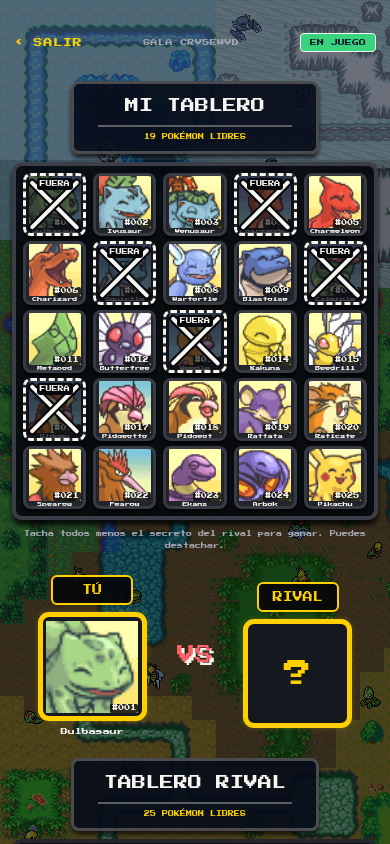
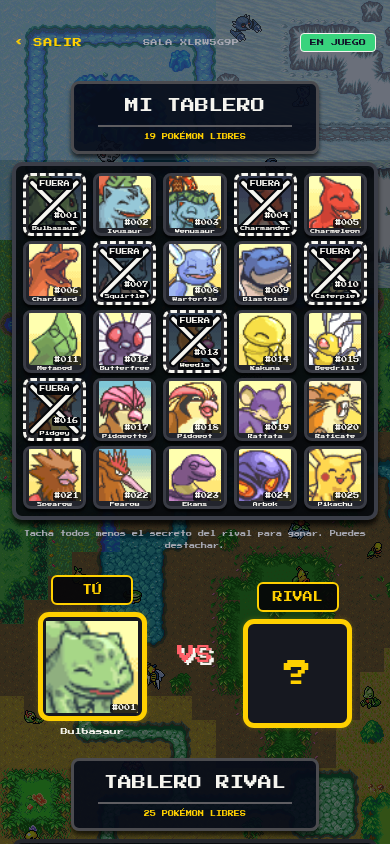
Docs: «en TACHADO VISIBLE, activa MODO DALTÓNICO»; expo 58.0.22 y zod; capturas nuevas
- README y USER_GUIDE nombraban el interruptor como «TACHADO VISIBLE»; se llama MODO DALTÓNICO.
- CHANGELOG, PLAN, MEMORY y SECURITY: expo 58.0.22, 11 avisos moderados y overrides de zod retirado.
- Capturas de Ajustes y del tablero con el tachado visible rehechas con el número y el nombre legibles.

Hecho por Claude.

diff --git a/MEMORY.md b/MEMORY.md
@@ -4,7 +4,7 @@ Memoria del proyecto para personas y agentes: decisiones, trampas conocidas y es
 
 ## Estado actual (31/10/2026)
 
-- Versión **1.1.0** con Expo SDK 58 (expo 58.0.21, React Native 0.88.1, React 19.3). Novedad: ventana de **Ajustes**
+- Versión **1.1.0** con Expo SDK 58 (expo 58.0.22, React Native 0.88.1, React 19.3). Novedad: ventana de **Ajustes**
   (sonido y volumen, vibración, tachado visible para daltonismo y estadísticas del Solitario exportables). Web jugable en
   <https://bertmarti.github.io/Adivina-pkm/>, instalable como PWA; el Solitario funciona sin red.
 - Solitario: 100 % local, funciona en la web sin servidor.
@@ -34,7 +34,7 @@ Memoria del proyecto para personas y agentes: decisiones, trampas conocidas y es
 | 24/10/2026 | `connect-src` de la CSP se limita a la web y al servidor configurado | Evita conexiones arbitrarias desde la build publicada. |
 
 | 25/10/2026 | Expo SDK 58 completo de una vez | Cerraba las alertas pendientes del SDK 57 que sí tenían arreglo y Dependabot no puede subir el SDK por piezas. |
-| 25/10/2026 | `overrides` de `zod` ^4.6.7 solo dentro de `@expo/cli` | El CLI usa zod solo para validar complementos de DevTools/MCP con API que zod 4 mantiene; `expo-doctor`, `expo export` y `expo start` funcionan. Quitar el override cuando `@expo/cli` dependa de zod ≥ 4.6.6. |
+| 25/10/2026 | `overrides` de `zod` ^4.6.7 solo dentro de `@expo/cli` (**quitado el 31/10/2026**: @expo/cli 58.1.18 ya no depende de zod) | El CLI usa zod solo para validar complementos de DevTools/MCP con API que zod 4 mantiene; `expo-doctor`, `expo export` y `expo start` funcionan. Quitar el override cuando `@expo/cli` dependa de zod ≥ 4.6.6. |
 | 25/10/2026 | `node-forge` 1.4.0 se deja (alerta abierta) | No existe versión corregida; solo lo usa `@expo/cli` para certificados de firma (iOS y expo-updates), que este proyecto no usa. **Resuelto el 31/10/2026:** `npm audit fix` sube a 1.4.2 (dentro del rango `^1.4.0` de `@expo/cli`). |
 | 25/10/2026 | Fuente derivada «PokeQuien Pixel» | Press Start 2P encoge las mayúsculas acentuadas. La OFL permite modificarla, pero con otro nombre (nombre reservado). |
 | 25/10/2026 | PWA generada en la build (`scripts/add-web-pwa.mjs`), no en `public/` | La lista de precaché depende de los nombres con hash de cada build; y en `expo start --web` no debe haber service worker. |
@@ -47,7 +47,7 @@ Memoria del proyecto para personas y agentes: decisiones, trampas conocidas y es
 | 31/10/2026 | Vibración web solo con `navigator.vibrate` y tras la primera pulsación (`userActivation.hasBeenActive`) | Safari de iPhone y los ordenadores no la tienen; Chrome bloquea y avisa en consola si se llama antes de que la persona toque la página. |
 | 31/10/2026 | Tachado visible (modo daltónico) con velo, aspa blanca con contorno negro, borde discontinuo y «FUERA» | Cuatro señales que no dependen del tono; `src/ui/contrast.test.ts` comprueba WCAG AA (texto ≥ 4,5:1, gráficos ≥ 3:1). |
 | 31/10/2026 | Estadísticas del Solitario calculadas del historial existente (`src/game/singlePlayerStats.ts`), sin almacenamiento nuevo | Una sola fuente de verdad: borrar estadísticas es borrar el historial. CSV con `;`, BOM y protección contra fórmulas para Excel en español. |
-| 31/10/2026 | Avisos moderados de `glob` 13 / `minimatch` 10 / `deepmerge` sin `overrides` | Son majors dentro de las herramientas de Expo; forzarlas podría romper `expo export`. Se esperan al parche del SDK. |
+| 31/10/2026 | Avisos moderados de `glob` 13 / `minimatch` 10 sin `overrides` (deepmerge desapareció con expo 58.0.22) | Son majors dentro de las herramientas de Expo; forzarlas podría romper `expo export`. Se esperan al parche del SDK. |
 
 ## Trampas conocidas
 

diff --git a/docs/SECURITY.md b/docs/SECURITY.md
@@ -59,6 +59,6 @@ node --check server/room-server.js
 git diff --check
 ```
 
-Dependencias (31/10/2026, SDK 58, expo 58.0.21): `node-forge` 1.4.2 (publicada el 27/10/2026) corrige GHSA-86w9-cpqp-85rv y otros 11 avisos de forge; `npm audit` ya no da ninguna alta ni crítica. Quedan 11–12 avisos moderados/bajos (12 en la Raspberry, 11 en el CI), todos dentro de las herramientas de Expo (`@expo/cli`, `@expo/config`, `@expo/metro-config`…), por tres paquetes sin versión corregida dentro de su major: `glob` 13 (GHSA-3g3m-2fjr-6pw4, se corrige en 14.0.2), `minimatch` 10 (GHSA-g3hv-75wg-m249, en 11.0.1) y `deepmerge` 4.3.1 (GHSA-gcqx-w48m-w2h4, baja, sin parche). Solo se usan en el ordenador de desarrollo o en CI con patrones y archivos del propio repo; no llegan a la APK, la web ni el servidor de salas. La «solución» de `npm audit fix --force` (bajar a expo 51) no tiene sentido; se aceptarán cuando Expo publique un parche del SDK 58 con esas majors. `npm audit` dentro de `server/` da 0 vulnerabilidades. `zod` se fuerza a `^4.6.7` dentro de `@expo/cli` con `overrides` en `package.json` (GHSA-mrhx-c7xc-m3w5 resuelto; el CLI solo usa API compatible con zod 4).
+Dependencias (31/10/2026, SDK 58, expo 58.0.22): `node-forge` 1.4.2 (publicada el 27/10/2026) corrige GHSA-86w9-cpqp-85rv y otros 11 avisos de forge; `npm audit` ya no da ninguna alta ni crítica. Quedan 11 avisos moderados, todos dentro de las herramientas de Expo (`@expo/cli`, `@expo/config`, `@expo/metro-config`…), por dos paquetes sin versión corregida dentro de su major: `glob` 13 (GHSA-3g3m-2fjr-6pw4, se corrige en 14.0.2) y `minimatch` 10 (GHSA-g3hv-75wg-m249, en 11.0.1). Solo se usan en el ordenador de desarrollo o en CI con patrones y archivos del propio repo; no llegan a la APK, la web ni el servidor de salas. La «solución» de `npm audit fix --force` (bajar a expo 51) no tiene sentido; se aceptarán cuando Expo publique un parche del SDK 58 con esas majors. `npm audit` dentro de `server/` da 0 vulnerabilidades. El `overrides` de `zod` (GHSA-mrhx-c7xc-m3w5) se quitó el 31/10/2026: desde expo 58.0.22, `@expo/cli` 58.1.18 ya no depende de zod.
 
 Las decisiones siguen la [guía de seguridad WebSocket de OWASP](https://cheatsheetseries.owasp.org/cheatsheets/WebSocket_Security_Cheat_Sheet.html): allowlist de `Origin`, validación de cada mensaje, límites de tamaño, rate limiting y limpieza de conexiones. `expo-secure-store` se usa solo para el token pequeño de sesión, siguiendo su almacenamiento seguro en [Android/iOS](https://docs.expo.dev/versions/v54.0.0/sdk/securestore/); el historial local de partidas sigue siendo deliberadamente no sensible.

diff --git a/README.md b/README.md
@@ -311,7 +311,7 @@ Abre **AJUSTES** arriba a la derecha en la pantalla de inicio. Durante un Duelo,
 
 - 🔊 **Sonido:** activa o desactiva el sonido, ajusta el volumen en pasos del 10 % con **−** y **+** (empieza al 80 %) y pulsa **PROBAR SONIDO**.
 - 📳 **Vibración:** activa o desactiva la vibración y pulsa **PROBAR VIBRACIÓN**. En la app usa la vibración del teléfono; en la web funciona en móviles Android con Chrome (u otro navegador que pueda vibrar). En Safari de iPhone y en ordenadores aparece desactivada porque no pueden vibrar. Si tienes activado «reducir movimiento», empieza apagada y las animaciones no tienen movimiento.
-- 🦻 **Tachado visible:** actívalo para que cada carta descartada se oscurezca y lleve un aspa blanca con borde negro, borde discontinuo y la etiqueta «FUERA». La vista previa muestra una carta disponible y otra descartada.
+- 🦻 **Tachado visible:** en **TACHADO VISIBLE**, activa **MODO DALTÓNICO** para que cada carta descartada se oscurezca y lleve un aspa blanca con borde negro, borde discontinuo y la etiqueta «FUERA». La vista previa muestra una carta disponible y otra descartada.
 - 📊 **Estadísticas del Solitario:** consulta tus resultados, exporta CSV o JSON y borra las estadísticas y el historial del Solitario. Todo se guarda solo en este dispositivo o navegador, no se envía a ningún servidor. **VALORES POR DEFECTO** devuelve los ajustes iniciales.
 
 <p align="center">
@@ -398,7 +398,7 @@ Sí. Abre <b>AJUSTES</b> y apaga el interruptor de <b>Sonido</b> o <b>Vibración
 <details>
 <summary><b>Distingo mal los colores: ¿cómo veo qué cartas he descartado?</b></summary>
 <br>
-Activa <b>TACHADO VISIBLE</b> en <b>AJUSTES</b>. Las cartas descartadas se oscurecen y llevan un aspa blanca con borde negro, borde discontinuo y la etiqueta <b>FUERA</b>.
+En <b>AJUSTES</b>, apartado <b>TACHADO VISIBLE</b>, activa <b>MODO DALTÓNICO</b>. Las cartas descartadas se oscurecen y llevan un aspa blanca con borde negro, borde discontinuo y la etiqueta <b>FUERA</b>.
 </details>
 
 <details>

diff --git a/PLAN.md b/PLAN.md
@@ -49,7 +49,7 @@ Actualizado el 31/10/2026 (versión 1.1.0). Prioridad de arriba abajo.
   - **estadísticas del Solitario**: partidas, aciertos de la máquina, victorias, preguntas medias y Pokémon más
     difíciles, exportables en CSV o JSON y con borrado confirmado.
 - `aria-checked` en interruptores y en el selector de generación (react-native-web no lo ponía).
-- Mantenimiento: expo 58.0.21 / RN 0.88.1 y `node-forge` 1.4.2 (alerta ALTA cerrada); prueba de humo con paso de
+- Mantenimiento: expo 58.0.22 / RN 0.88.1, `node-forge` 1.4.2 (alerta ALTA cerrada) y fuera el `overrides` de zod; prueba de humo con paso de
   Ajustes y detector de violaciones de CSP.
 
 ## ⏭ Después de la 1.0
@@ -59,8 +59,8 @@ Actualizado el 31/10/2026 (versión 1.1.0). Prioridad de arriba abajo.
    Volver a desplegar con la 1.1.0 es opcional (el servidor no cambia, solo su número de versión).
 2. **Licencias antes de tiendas o anuncios**: sustituir los GIF de espera y los sonidos de terceros por recursos propios.
 3. **Dependencias de Expo**: ✅ `node-forge` 1.4.2 ya corrige GHSA-86w9-cpqp-85rv (31/10/2026). Quedan avisos moderados
-   de `glob`/`minimatch`/`deepmerge` dentro de las herramientas de Expo: aceptar el parche del SDK 58 que los traiga y
-   quitar el `overrides` de zod cuando @expo/cli dependa de zod 4.
+   de `glob`/`minimatch` dentro de las herramientas de Expo: aceptar el parche del SDK 58 que los traiga. El `overrides`
+   de zod ya se quitó (expo 58.0.22: @expo/cli no depende de zod).
 4. **Duelo en CI**: ampliar `npm run test:web` con un Duelo completo entre dos pestañas contra un servidor local
    (hoy se prueba a mano y con el script de la revisión).
 5. **Reglas compartidas**: extraer las transiciones a un módulo JS común (o pruebas de contrato) para que servidor y

diff --git a/CHANGELOG.md b/CHANGELOG.md
@@ -38,14 +38,14 @@ Llegan los **Ajustes**: el juego se adapta a ti (sonido, vibración, daltonismo)
 ### 🔐 Seguridad
 
 - `node-forge` 1.4.2 dentro de las herramientas de Expo: cierra la alerta ALTA GHSA-86w9-cpqp-85rv y otros 11 avisos.
-  `npm audit`: 0 altas y 0 críticas (quedan 11–12 moderadas/bajas solo en herramientas de desarrollo de Expo, sin parche
-  en su versión; ver `docs/SECURITY.md`).
+  `npm audit`: 0 altas y 0 críticas (quedan 11 moderadas solo en herramientas de desarrollo de Expo, sin parche
+  en su versión; ver `docs/SECURITY.md`). Fuera el `overrides` de zod: `@expo/cli` ya no depende de él.
 - Ajustes e historial con claves prefijadas `adivina-pkm:` (origen compartido de GitHub Pages) y validados al leerlos;
   el CSV exportado neutraliza fórmulas.
 
 ### 🔄 Cambiado
 
-- Expo 58.0.21, React Native 0.88.1 y React 19.3.0 (lo que pide el SDK 58; `expo-doctor` 20/20).
+- Expo 58.0.22, expo-audio 58.0.11, React Native 0.88.1 y React 19.3.0 (lo que pide el SDK 58; `expo-doctor` 20/20).
 - La prueba de humo de la web prueba también los Ajustes (guardado y exportación CSV) y falla ante cualquier
   violación de la CSP. Pruebas nuevas de ajustes, vibración web, contraste y estadísticas.
 

diff --git a/docs/USER_GUIDE.md b/docs/USER_GUIDE.md
@@ -68,7 +68,7 @@ En la pantalla de elegir Pokémon, pulsa **VER ESTADÍSTICAS** para abrir direct
 
 ### Tachado visible
 
-1. Activa **TACHADO VISIBLE** para distinguir los descartes sin depender del color.
+1. En **TACHADO VISIBLE**, activa **MODO DALTÓNICO** para distinguir los descartes sin depender del color.
 2. Las cartas descartadas se oscurecen y llevan un aspa blanca con borde negro, borde discontinuo y la etiqueta **FUERA**.
 3. Consulta la vista previa: muestra una carta disponible y otra descartada.
 
